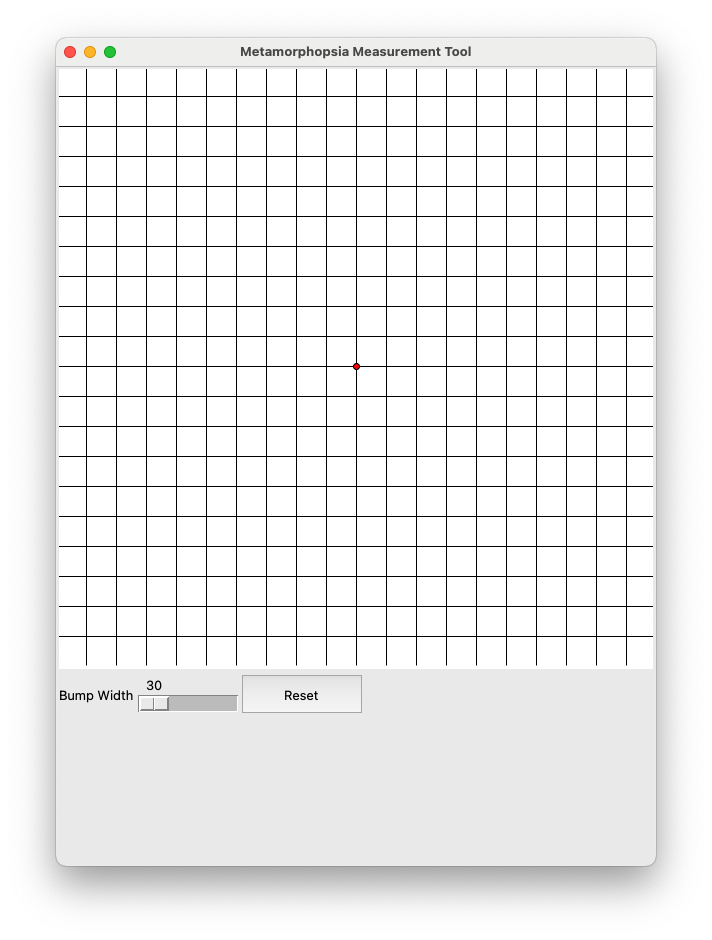
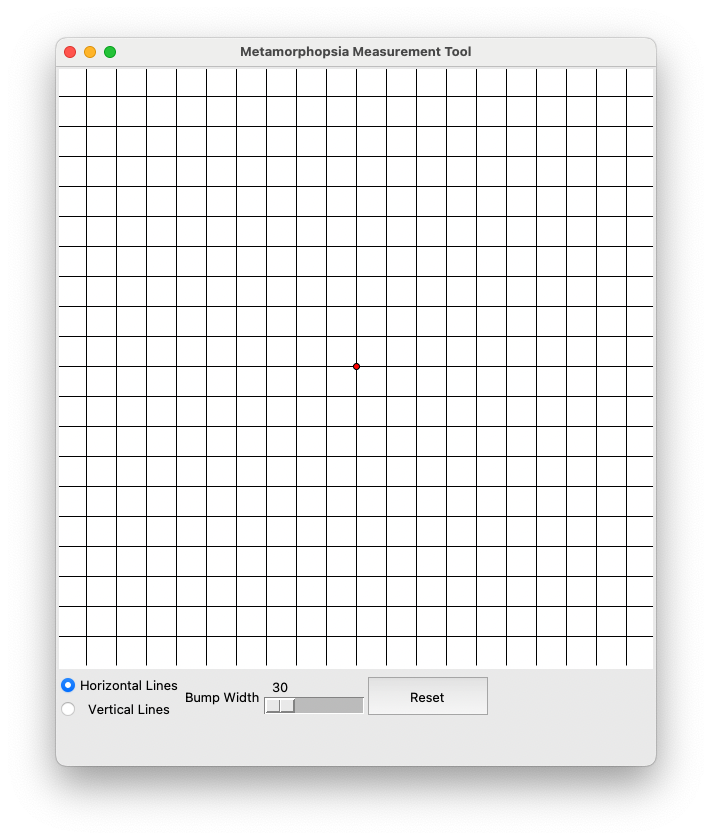
added vertical line adjustments

diff --git a/metamorphopsia.py b/metamorphopsia.py
@@ -14,14 +14,16 @@ bump_r = 2 * dx
 date = datetime.now().strftime("%Y-%m-%d")
 title_base = "Metamorphopsia Measurement Tool"
 
-selected_line_num = None
+selected_x_line_num = None
+selected_y_line_num = None
 
 window = Tk() 
 window.title('Metamorphopsia Measurement Tool') 
-window.geometry(str(width) + "x" + str(width + 200)) 
+window.geometry(str(width) + "x" + str(width + 100)) 
 
-# offset and value units of 1/10 of dx
+# offset and value
 h_lines = [ {'offset': 0, 'value': 0} for x in range(num_lines)]
+v_lines = [ {'offset': 0, 'value': 0} for x in range(num_lines)]
 
 canvas = Canvas(window, bg="white", height=width, width=width) 
 button_frame = Frame(window)
@@ -32,7 +34,8 @@ def set_window_title():
 
 def reset():
     global h_lines, v_lines
-    h_lines = [ {'offset': 0, 'value': 0} for x in range(num_lines)]     
+    h_lines = [ {'offset': 0, 'value': 0} for x in range(num_lines)]   
+    v_lines = [ {'offset': 0, 'value': 0} for x in range(num_lines)]    
     draw_lines()    
 
 def save_as():
@@ -42,7 +45,7 @@ def save_as():
         initialdir='.',
         defaultextension=".met",
         filetypes=[("Metamorphopsia JSON","*.met")])
-    data = {'bump_r': bump_r, 'h_lines': h_lines, 'date': date}
+    data = {'bump_r': bump_r, 'h_lines': h_lines, 'v_lines': v_lines, 'date': date}
     if file is None: # asksaveasfile return `None` if dialog closed with "cancel".
         return
     json.dump(data, file)
@@ -50,7 +53,7 @@ def save_as():
     
 
 def open_file():
-    global h_lines, bump_r, date
+    global h_lines, v_lines, bump_r, date
     file = askopenfile(initialdir='.',
         defaultextension=".met",
         filetypes=[("Metamorphopsia JSON","*.met")])
@@ -59,6 +62,7 @@ def open_file():
     data = json.load(file)
     bump_r = data['bump_r']
     h_lines = data['h_lines']
+    v_lines = data['v_lines']
     date = data['date']
     draw_lines()
     file.close()    
@@ -80,10 +84,9 @@ def export_image():
 
 def draw_lines():
     canvas.delete('all')
-    for h_line in range(num_lines-1):
-        draw_h_line(h_line)
-    for v_line in range(num_lines-1):
-        draw_v_line(v_line)
+    for line_num in range(num_lines-1):
+        draw_h_line(line_num)
+        draw_v_line(line_num)
     draw_dot()
 
 def draw_dot():
@@ -101,28 +104,53 @@ def draw_h_line(line_num):
     distortion = ((mid_x + line['offset']), (y + line['value']))
     distortion_1 = ((mid_x + line['offset'] + bump_r), y)
     color = 'black'
-    if selected_line_num == line_num:
+    if selected_x_line_num == line_num:
         color = 'blue'
     canvas.create_line(left, distortion_0, distortion, distortion_1, right, fill=color, smooth="bezier")
 
 def draw_v_line(line_num):
-    canvas.create_line(line_num * dx, 0, line_num * dx, width-1)
+    x = line_num * dx
+    line = v_lines[line_num]
+    top = (x, 0)
+    bottom = (x, width-1)
+    distortion_0 = (x, (mid_x + line['offset'] - bump_r))
+    distortion = ((x + line['value']), (mid_x + line['offset']))
+    distortion_1 = (x, (mid_x + line['offset'] + bump_r))
+    color = 'black'
+    if selected_y_line_num == line_num:
+        color = 'blue'
+    canvas.create_line(top, distortion_0, distortion, distortion_1, bottom, fill=color, smooth="bezier")
+
+
+# def draw_v_line(line_num):
+#     canvas.create_line(line_num * dx, 0, line_num * dx, width-1)
 
 def click(event):
-    global selected_line_num
+    global selected_x_line_num, selected_y_line_num
     x, y = event.x, event.y
-    #print('{}, {}'.format(x, y))
-    selected_line_num = round(y / dx)
+    if axis.get() == 'x':
+        selected_x_line_num = round(y / dx)
+    else:  
+        selected_y_line_num = round(x / dx)
 
 def motion(event):
-    if not selected_line_num:
-        return
-    selected_line = h_lines[selected_line_num]
     x, y = event.x, event.y
-    x_offset_pixels = x - mid_x
-    y_offset_pixels = y - (selected_line_num * dx)
-    selected_line['offset'] = x_offset_pixels
-    selected_line['value'] = y_offset_pixels
+    if axis.get() == 'x':
+        if not selected_x_line_num:
+            return
+        selected_line = h_lines[selected_x_line_num]
+        x_offset_pixels = x - mid_x
+        y_offset_pixels = y - (selected_x_line_num * dx)
+        selected_line['offset'] = x_offset_pixels
+        selected_line['value'] = y_offset_pixels
+    else:
+        if not selected_y_line_num:
+            return
+        selected_line = v_lines[selected_y_line_num]
+        x_offset_pixels = x - (selected_y_line_num * dx)
+        y_offset_pixels = y - mid_x
+        selected_line['offset'] = y_offset_pixels
+        selected_line['value'] = x_offset_pixels
     draw_lines()
 
 canvas.bind('<B1-Motion>', motion)
@@ -132,6 +160,16 @@ def changed_bump(w):
     global bump_r
     bump_r = int(w)
     draw_lines()
+
+axis = StringVar(window, 'x')
+
+axis_frame = Frame(button_frame)
+x_button = Radiobutton(axis_frame, text="Horizontal Lines", variable=axis, value='x')
+x_button.pack(fill='both')
+y_button = Radiobutton(axis_frame, text="Vertical Lines", variable=axis, value='y')
+y_button.pack(fill='both')
+
+axis_frame.pack(side='left')
 
 width_label = Label(button_frame, text="Bump Width")
 width_label.pack(side='left')

diff --git a/README.md b/README.md
@@ -2,7 +2,7 @@
 
 An open Python tool for assessing Metamorphopsia caused by an epiretinal membrane (ERM)
 
-I have an ERM in my right eye, and at the end of a recent examination, I was given an Amsler chart to take home, to use for self assessment of the amount of distortion. With the the words *if it gets worse, come back and see us. If not, see you in a year*
+I have an ERM in my right eye, and at the end of a recent examination, I was given an Amsler chart to take home, to use for self assessment of the amount of distortion. With the the words *if it gets worse, come back and see us. If not, see you in a year*.
 
 The *Amsler Recording Chart*, is just an A5 sheet of paper with a 5mm pitch grid printed on it and a dot in the middle. When you look at it with one eye (staring at the dot) you see distortion in the grid. For me, the horizontal lines bend near the middle.
 
@@ -31,20 +31,21 @@ This will open a window looking like this.
 
 ![The undistorted grid](figs/fig1.png)
 
-The process with my software tool is, while looking at the grid with the eye you want to assess (let's call this the *bad eye*), adjust the horizontal lines until they appear straight, with the bad eye. In doing this, you will have distorted the grid, to compensate for the distortion in the bad eye. When you look at the grid with your good eye, you will see the distorted grid, that you can save as a record.
+The process with my software tool is, while looking at the grid with the eye you want to assess (let's call this the *bad eye*), adjust the lines until they appear straight, with the bad eye. In doing this, you will have distorted the grid, to compensate for the distortion in the bad eye. When you look at the grid with your good eye, you will see the distorted grid, that you can save it as a record.
 
 Here's the grid that looks regular for me using my bad eye.
 
 ![Simon's right eye distortion](figs/fig2.png)
 
 In more detail, here is the procedure.
-
+* Decide which lines to adjust first (horizontal or vertical) and click the relevant radio button for *Horizontal Lines* or *Vertical Lines*. If like me, the vertical lines are straight, then you will only need to adjust the horizontal lines.
 * Closing your good eye, look at the dot in the centre of the grid (the grid lines look bumpy). Try and keep a consistent distance to the screen.
-* Use your mouse (or get someone else to do this) to drag the middle line on which the red dot is placed so that it is flat.
-* You may find that while the middle of the distortion is corrected, the corrective bump is not wide enough. If so, adjust the *Bump Width* slider, until the middle line is as flat as possible. All the time, try and focus on the dot.
+* Use your mouse (or get someone else to do this) to drag the middle line on which the red dot is placed so that it is as straight as possible.
+* You may find that while the middle of the distortion is corrected, the corrective bump is not wide enough. If so, adjust the *Bump Width* slider, until the middle line is as straight as possible. All the time, try and focus on the dot.
 * Now adjust the lines above and below the middle line, to make them flat, always coming back to focus on the dot.
+* If you need to adjust the lines on the other axis, click the radio button and repeat the line straightening for the other axis.
 
-That's it. You can now save the chart, from the *File* menu. By default, the file is named as a timestamp, so you can keep a historical record.
+That's it. You can now *Save* the chart, from the *File* menu. By default, the file is named as a timestamp, so you can keep a historical record.
 
 ![Menu](figs/fig3.png)
 
@@ -56,9 +57,9 @@ The *Export...* menu option allows you to save the plot as a PNG image.
 
 I have zero optometry training. I can barely spell it. So please, please, please **DO NOT RELY ON THIS TOOL**. Go and see a professional.
 
-I am very aware that this works for me, as my distortions are only along horizontal lines. And essentially I have a single distortion 'bump', that extends to several lines above and below the dot. And, imaging the distortion may be on different axes for different cases.
+I am very aware that this works for me, as my distortions are only along horizontal lines. And essentially I have a single distortion 'bump', that extends to several lines above and below the dot. And, imaging the distortion may be on different axes for different people.
 
-Assuming the distortion is always limited to one plane, it would be relatively easy to add a *rotation* feature to the grid, or simply allow vertical lines to be adjusted too. 
+I don't know how useful this tool will be for someone with a *diagonal* distortion.
 
-I'd love to enter into a discussion on this with an optometrist, and welcome pull requests for improvements.
+I'd love to enter into a discussion on this with an optometrist, and welcome pull requests for improvements. If you have found the tool useful, please send me a message via github.
 
